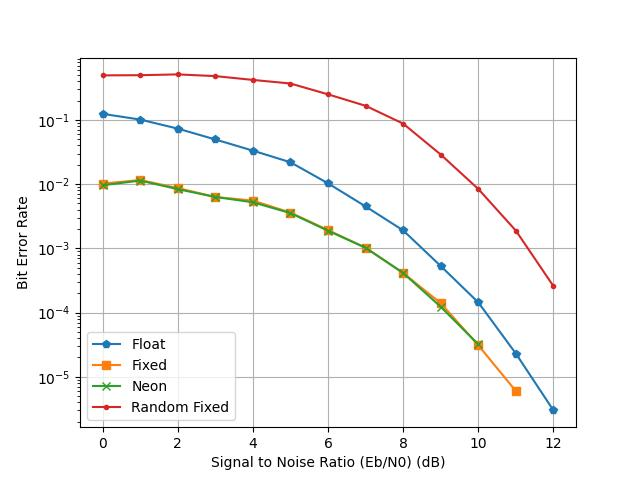
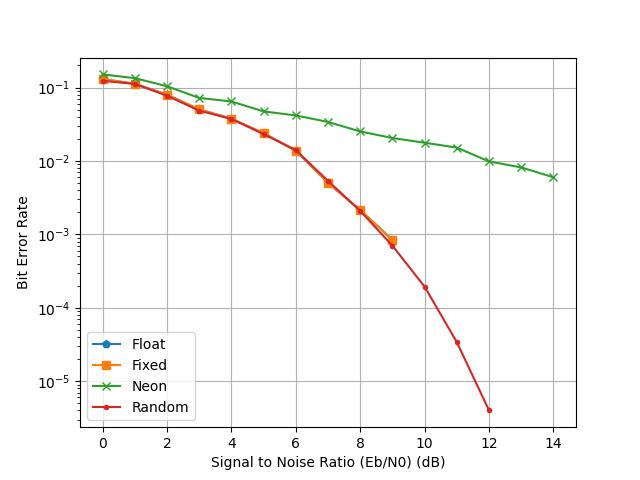
gbzeuoip

diff --git a/Modulateur/graphs.py b/Modulateur/graphs.py
@@ -9,13 +9,13 @@ import pandas
 ## Files = (namefile, legend, print format)
 ## with print format being first the dot style (x, +, . ...) and then the line style (usually - for continuous or -- for dashed)
 files = [ 
-         ("sim_soft.csv", "Float", "p-"),
-         ("sim_soft8.csv", "Fixed", "s-"),
-         ("sim_soft_neon.csv", "Neon", "x-"),
-         ("sim_soft_random.csv", "Random", ".-")
+         ("sim_hard.csv", "Float", "p-"),
+         ("sim_hard8.csv", "Fixed", "s-"),
+         ("sim_hard_neon.csv", "Neon", "x-"),
+         ("sim_hard_random.csv", "Random", ".-")
 ]
 
-output = "soft_comp"
+output = "hard_comp"
 xlabel = "Signal to Noise Ratio (Eb/N0) (dB)"  
 ylabel = "Bit Error Rate"
 x = "Eb/No"

diff --git a/Modulateur/simulator.c b/Modulateur/simulator.c
@@ -207,6 +207,7 @@ void codec_repetition_hard_decode8_neon(const int8_t *L8_N, uint8_t *V_K, size_t
     int8x16_t sum; //Stores the local sum for that part of the array
     int8x16_t only1 = vdupq_n_s8(1);
     for (int a=0; a<array_nb; a++) { //Pour chaque groupe de 16 valeurs (taille de K)
+        sum = vdupq_n_s8(0);
         for (int r=0; r<n_reps; r++) { //Pour chacune des répétitions
             //Préparation de la partie a
             decomposed = vld1q_s8(L8_N + (r*K + a*16));
